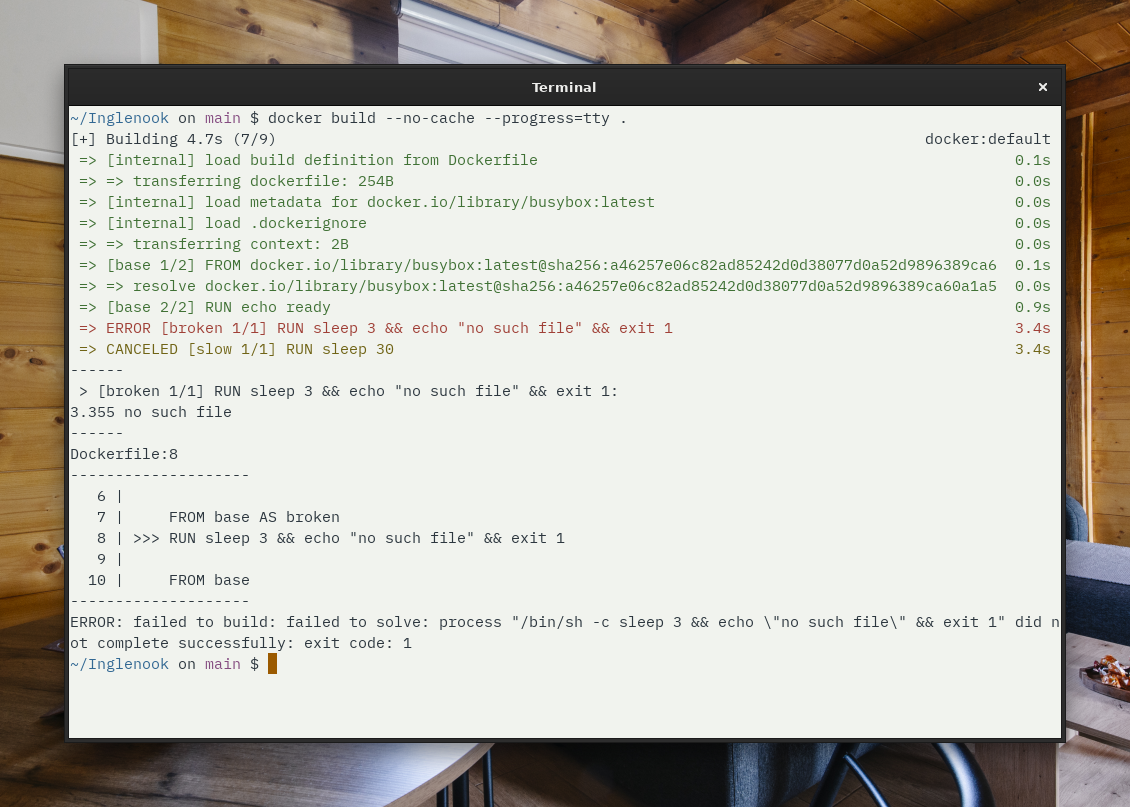
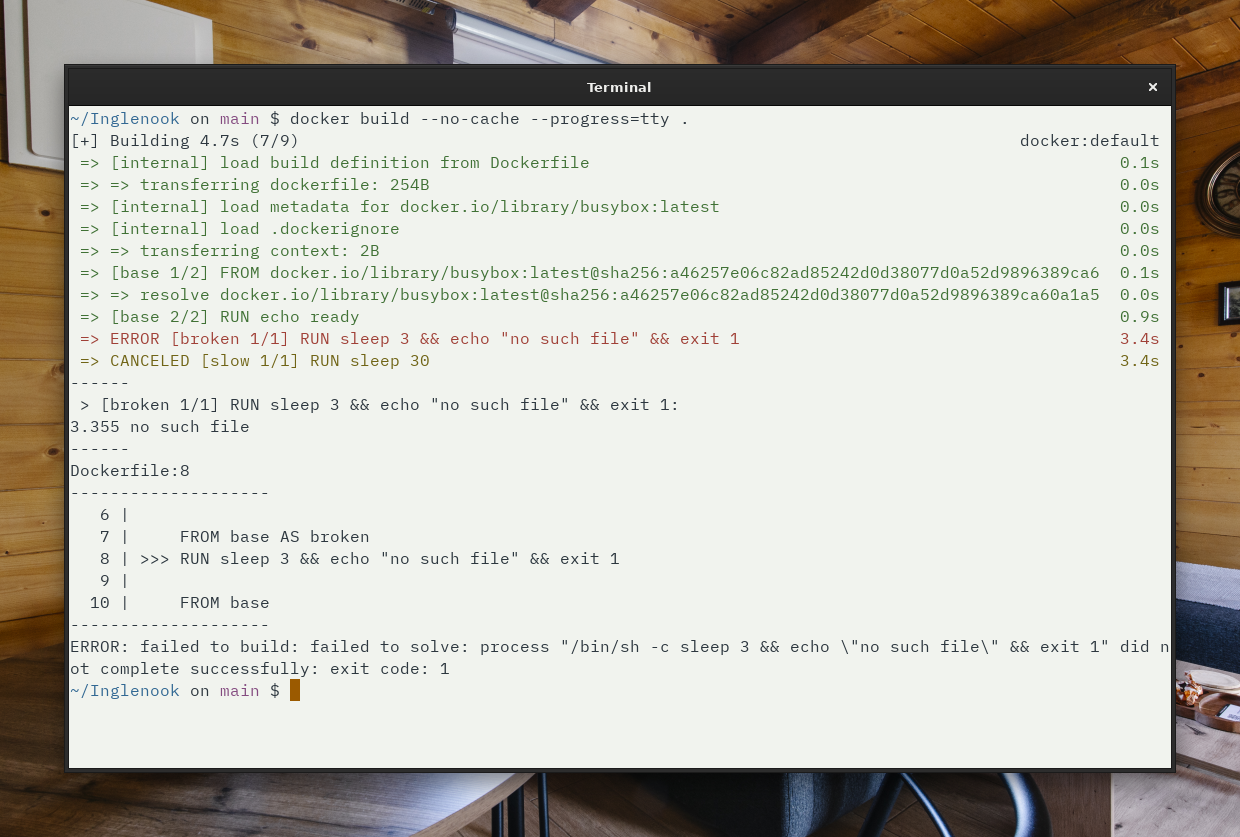
Give every CLI shot the same font
The CLI scene's font varied by port: git and docker at 11, bat and
hexyl at 13, ripgrep on the system default, the rest at 12 from the
GNOME Terminal port. scenes/cli/font.sh now sets BlexMono Nerd Font
Mono 12, and every CLI recipe that opens its own terminal runs it
first. Per-port font settings are gone. Retook bat, btop, docker, git,
hexyl and ripgrep; eza was already at 12 and did not change.

Part of #36

diff --git a/.claude/skills/new-port/SKILL.md b/.claude/skills/new-port/SKILL.md
@@ -128,7 +128,7 @@ A port ships only with real screenshots of both variants, taken by the Photograp
 - **platform**: `linux` if the app runs there, else `windows`, else `macos`.
 - The backdrop is not the recipe's: every shot sits on the variant's wallpaper (Cabin Seating in Day and Mission Fireplace in Night), set by the Photographer.
 - **host**: for an app that lives inside another port (a prompt in a terminal, an icon theme in VS Code). The host launches it, so give only `install`, `apply`, and `stage`.
-- **apply**: the README's install steps, verbatim, with `$INGLENOOK_PORT/dist/$INGLENOOK_VARIANT/` for the files. **stage** never changes a color, and turns off self-update and first-run dialogs.
+- **apply**: the README's install steps, verbatim, with `$INGLENOOK_PORT/dist/$INGLENOOK_VARIANT/` for the files. **stage** never changes a color, and turns off self-update and first-run dialogs. A `cli` recipe that opens its own terminal (no host) runs `bash "$INGLENOOK_SCENE/font.sh"` first, so every CLI shot has the same font.
 - **version**: the exact app version, required unless the Ubuntu package date in `build/photograph/pins.json` pins the app. This is the port's first pin. Moving a pin in `pins.json` is its own PR; see "Move a pin" in CONTRIBUTING.md.
 - Does the app **require** a login or a license to reach its themed screen, or only recommend one? Look it up in its docs and license terms, and write the answer with links under **Screenshot recipe** in `MAPPING.md`. Required means a manual recipe.
 - A step that stands in for something the reader does by hand (a dialog answered by a config file) gets a line in `MAPPING.md` under **Screenshot recipe**: not tested by hand.
